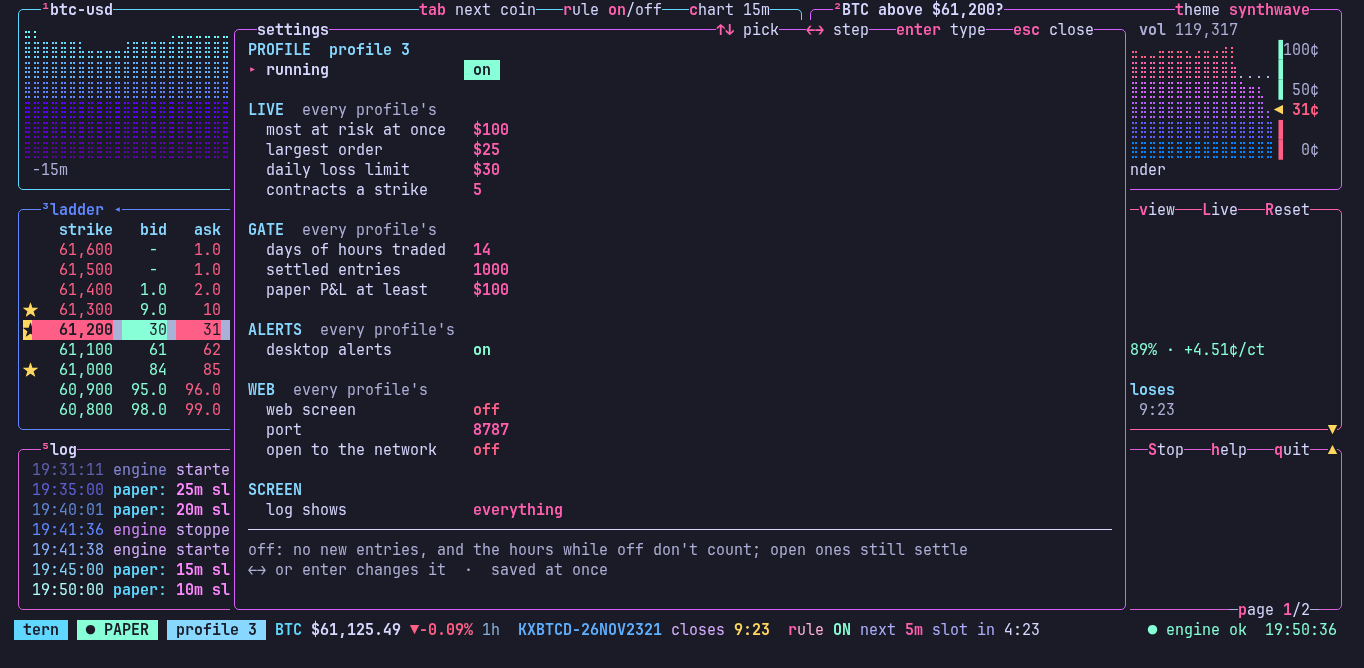
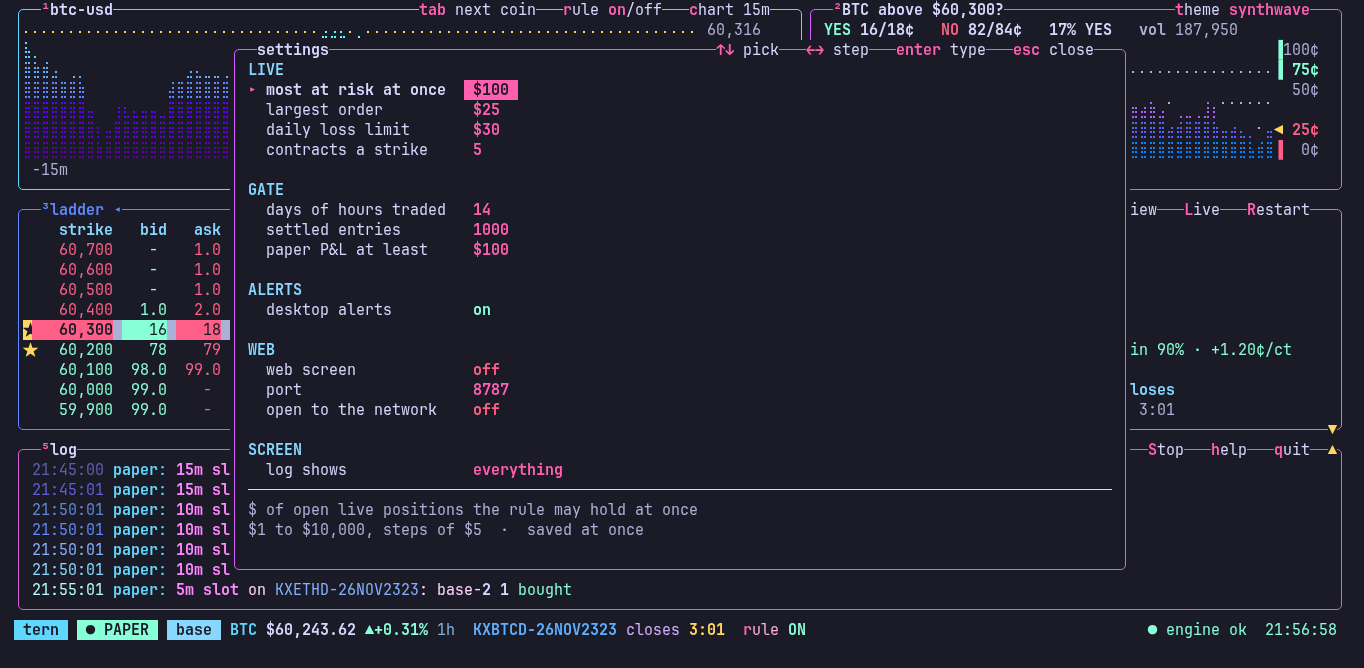
Log: a slot's buys in columns; README screenshots retaken

diff --git a/tern/dash.py b/tern/dash.py
@@ -356,9 +356,10 @@ OVERLAY_TOKENS = re.compile(
     r"|(?P<warn>\b(?:real money|turns live off|turns itself off|Nothing trades|No key found yet|Wipe)\b)"
     r"|(?P<keyhint>^(?:y|any key|any other key)\b|\besc\b|·\s(?:any (?:other )?key)\b)"
     r"|(?P<path>~/\S+|\bKALSHI_KEY_(?:ID|FILE)\b|\blive\.\w+)")
-SHADOW_LINE = re.compile(r"^(shadow: \S+ settled) · (.+)$")   # the engine's line after an hour settles
+SHADOW_LINE = re.compile(r"^(shadow: \S+ settled|paper: \d+m slot on \S+ bought) · (.+)$")   # the engine's lines after an
+                                                                                             # hour settles, and a slot
 LOG_GRID_COLS = 3                                # variants a row at most, however wide the screen
-SHADOW_CELL = re.compile(r"^(\S+) ([+-]\d[\d,]*\.\d\d)$")
+SHADOW_CELL = re.compile(r"^(\S+) ([+-]\d[\d,]*\.\d\d|\d+)$")
 RULE_LINE = "\0rule"                              # placeholder text: draw_overlay turns it into a divider
 
 # the help's key legend: two columns of (section, [(keys, what they do)])
@@ -418,7 +419,7 @@ HELP_CLI = [
 # what the log box may show (settings, e): key -> how the settings box names it
 LOG_FILTERS = {"all": "everything", "no_shadow": "no shadow lines", "quiet": "live, warnings, commands",
                "trades": "trades only"}
-TRADE_LINE = re.compile(r"^(?:live: \d+m slot on .*, [1-9]\d* bought$|paper: \d+m slot on .* bought$|live: \S+ (?:settled|finalized) )")
+TRADE_LINE = re.compile(r"^(?:live: \d+m slot on .*, [1-9]\d* bought$|paper: \d+m slot on \S+ bought · |live: \S+ (?:settled|finalized) )")
 SCREEN_SETTINGS = [cfgmod.Setting("screen", "log", "log shows", kind="choice", group="SCREEN",
                                   what="shadow: the variants' hourly results · quiet hides paper too · trades: buys and settlements only")]
 
@@ -1593,7 +1594,7 @@ class Screen:
                 cx = x + 11 + indent
                 for name, pnl in cells:
                     self.put(yy, cx, name, P(P.c("variant"), bold=True))
-                    self.put(yy, cx + len(name), pnl, P(GREEN if pnl.lstrip()[0] == "+" else RED, bold=True))
+                    self.put(yy, cx + len(name), pnl, P({"+": GREEN, "-": RED}.get(pnl.lstrip()[0], WHITE), bold=True))
                     cx += len(name) + len(pnl) + 3
             if sub:                                                # a continuation row: no time, no text
                 continue
@@ -1663,7 +1664,8 @@ class Screen:
 
     def log_rows(self, logs: list, w: int) -> list[tuple]:
         """The log box's screen rows, (ts, level, text, sub, cells, indent). A shadow settlement line ("shadow: EV
-        settled · base +1.20 · band90 -0.40 ...") becomes columns of (name, P&L) cells, 3 a row at most (fewer
+        settled · base +1.20 · band90 -0.40 ..."), or a slot's ("paper: 25m slot on EV bought · base 5 ..."), becomes
+        columns of (name, P&L or entries) cells, 3 a row at most (fewer
         if the box is narrow): the first row after "settled", the rest under it, each variant under the one
         above (sub 1, 2... and no text). Every other line is one row: sub 0, no cells."""
         out = []

diff --git a/tests/test_tern.py b/tests/test_tern.py
@@ -1689,6 +1689,12 @@ class Pages(Rig, unittest.TestCase):
             for _ in range(4):                                                 # more than the box holds
                 k.log(line)
             k.log("paper: after it"); scr.flash = ""; self.sync()
+            from tern import dash
+            slot = "paper: 25m slot on KXBTCD-E1 bought · base 5 · band90 12 · cap1 1 · late 3"
+            rows = scr.log_rows([[1.0, "info", slot]], 104)
+            self.assertEqual([r[2] for r in rows], ["paper: 25m slot on KXBTCD-E1 bought", ""])
+            self.assertEqual([c for r in rows for c in r[4]], [("base      ", " 5"), ("high favs ", "12"), ("cap1      ", " 1"), ("late      ", " 3")])
+            self.assertTrue(dash.TRADE_LINE.match(slot))                        # one of the log filter's trades
             rows = scr.log_rows([[1.0, "info", line], [2.0, "info", "shadow: odd line · no cells"]], 104)
             self.assertEqual(rows[0][:4], (1.0, "info", "shadow: KXETHD-E1 settled", 0))
             self.assertEqual([r[3] for r in rows], [0, 1, 2, 3, 0])             # 3 a row: 10 variants in 4 rows
@@ -1767,7 +1773,7 @@ class OwnVariants(Rig, unittest.TestCase):
             got = {r["v"]: r["n"] for r in k.shadow.rows}
             self.assertEqual([got[v] for v in ("base", "base-2", "base-3", "base-4")], [5, 2, 9, 12])   # $10 buys 12 at 81c
             self.assertTrue(any("25m slot" in m or "10m slot" in m for _, _, m in k.logs if m.startswith("paper:")))
-            self.assertTrue(any("base 1, " in m and "base-4 1" in m and m.endswith(" bought") for _, _, m in k.logs))
+            self.assertTrue(any(" bought · base 1 · " in m and m.endswith("base-4 1") for _, _, m in k.logs))
 
     def test_paper_start_is_the_variants(self):
         with tempfile.TemporaryDirectory() as d:

diff --git a/tern/shadow.py b/tern/shadow.py
@@ -332,8 +332,7 @@ class Shadow:
                                   "side": s["side"], "n": n, "cost": unit, "fee": fee, "slot": slot, "pnl": None,
                                   **({} if sv is None else {"sv": sv})})
                 bought[name] = bought.get(name, 0) + 1
-        return [f"paper: {slot}m slot on {event}: " + ", ".join(f"{self.own.title(n)} {k}" for n, k in bought.items()) + " bought"] \
-            if bought else []
+        return [f"paper: {slot}m slot on {event} bought · " + " · ".join(f"{n} {k}" for n, k in bought.items())] if bought else []
 
     # ------------------------------------------------------------ settlement
     def pending(self, now: float) -> dict[str, float]:
